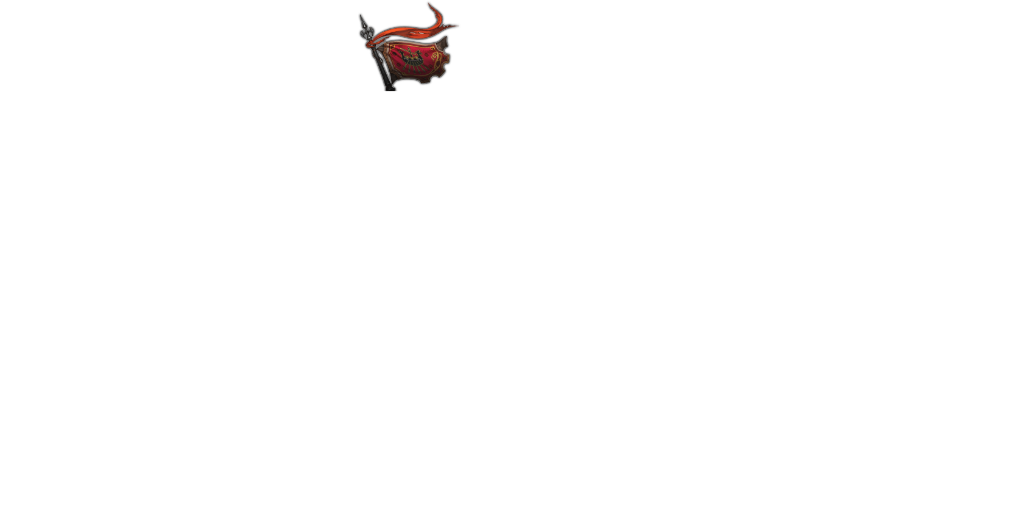
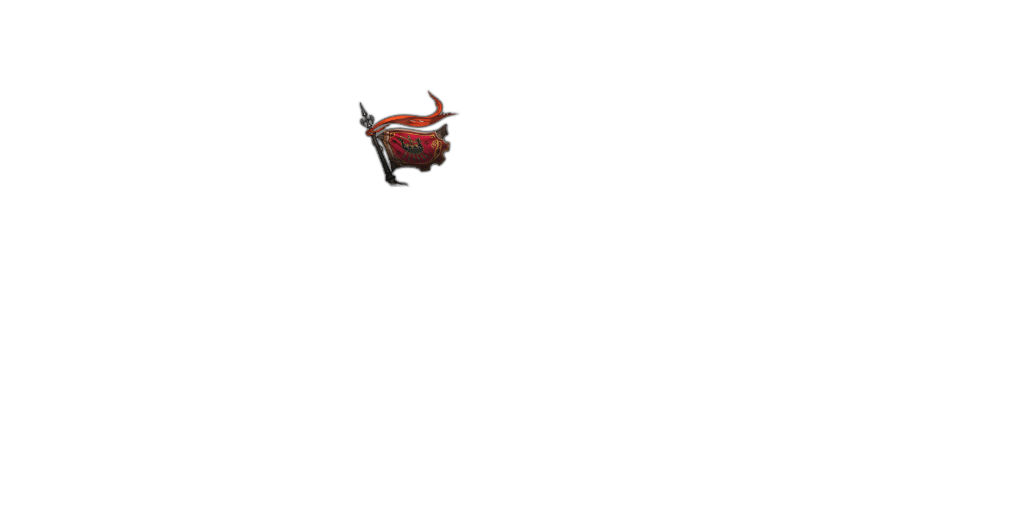
portrait updates

Changed region(s): [[0.3438, 0.0, 0.4375, 0.375]]

diff --git a/KupoNuts.Bot/Characters/PortraitDrawer.cs b/KupoNuts.Bot/Characters/PortraitDrawer.cs
@@ -3,14 +3,17 @@
 namespace KupoNuts.Bot.Characters
 {
 	using System;
+	using System.Buffers;
 	using System.IO;
 	using System.Threading.Tasks;
 	using KupoNuts.Bot.Utils;
 	using KupoNuts.Utils;
 	using SixLabors.Fonts;
 	using SixLabors.ImageSharp;
+	using SixLabors.ImageSharp.Memory;
 	using SixLabors.ImageSharp.PixelFormats;
 	using SixLabors.ImageSharp.Processing;
+	using SixLabors.ImageSharp.Processing.Processors;
 	using SixLabors.Primitives;
 	using XIVAPI;
 
@@ -62,13 +65,17 @@ namespace KupoNuts.Bot.Characters
 			gcImg.Dispose();
 
 			Image<Rgba32> rankImg = Image.Load<Rgba32>(PathUtils.Current + "/Assets/GrandCompanies/Ranks/" + character.GrandCompany?.Rank?.Icon.Replace("/i/083000/", string.Empty));
-			finalImg.Mutate(x => x.DrawImage(rankImg, new Point(370, 55), 1.0f));
+			finalImg.Mutate(x => x.DrawImage(rankImg, new Point(370, 152), 1.0f));
 			rankImg.Dispose();
-			finalImg.Mutate(x => x.DrawText(leftText, character.GrandCompany?.Rank?.Name, axisRegular.CreateFont(20), Color.White, new Point(420, 64)));
+			finalImg.Mutate(x => x.DrawText(leftText, character.GrandCompany?.Rank?.Name, axisRegular.CreateFont(18), Color.White, new Point(412, 163)));
+
+			// Server
+			finalImg.Mutate(x => x.DrawText(leftText, character.Server + " - " + character.DC, axisRegular.CreateFont(18), Color.White, new Point(412, 196)));
 
 			// Free Company
 			if (freeCompany != null)
 			{
+				Image<Rgba32> crestFinal = new Image<Rgba32>(128, 128);
 				foreach (string crestPart in freeCompany.Crest)
 				{
 					string name = Path.GetFileName(crestPart);
@@ -78,55 +85,89 @@ namespace KupoNuts.Bot.Characters
 						await FileDownloader.Download(crestPart, crestPath);
 
 					Image<Rgba32> crestImg = Image.Load<Rgba32>(crestPath);
-					crestImg.Mutate(x => x.Resize(75, 75));
-					finalImg.Mutate(x => x.DrawImage(crestImg, new Point(936, 12), 1.0f));
+					crestFinal.Mutate(x => x.DrawImage(crestImg, 1.0f));
 					crestImg.Dispose();
 				}
 
-				finalImg.Mutate(x => x.DrawText(rightText, "<" + freeCompany.Tag + ">", axisRegular.CreateFont(20), Color.White, new Point(925, 40)));
-				finalImg.Mutate(x => x.DrawText(rightText, freeCompany.Name, axisRegular.CreateFont(20), Color.White, new Point(925, 64)));
+				for (int y = 0; y < crestFinal.Height; y++)
+				{
+					for (int x = 0; x < crestFinal.Width; x++)
+					{
+						Rgba32 pixel = crestFinal[x, y];
+
+						if (pixel.R == 64 && pixel.G == 64 && pixel.B == 64)
+							pixel.A = 0;
+
+						crestFinal[x, y] = pixel;
+					}
+				}
+
+				crestFinal.Mutate(x => x.Resize(64, 64));
+				finalImg.Mutate(x => x.DrawImage(crestFinal, new Point(364, 270), 1.0f));
+				crestFinal.Dispose();
+
+				finalImg.Mutate(x => x.DrawText(leftText, "<" + freeCompany.Tag + ">", axisRegular.CreateFont(24), Color.White, new Point(431, 300)));
+				finalImg.Mutate(x => x.DrawTextAnySize(leftText, freeCompany.Name, axisRegular, Color.White, new Rectangle(431, 280, 158, 32)));
 			}
 
 			// Name / Bio
-			finalImg.Mutate(x => x.DrawTextAnySize(centerText, character.Name, optimuSemiBold, Color.White, new Rectangle(182, 450, 350, 50)));
-			finalImg.Mutate(x => x.DrawText(centerText, character.Title?.Name, axisRegular.CreateFont(22), Color.White, new PointF(182, 420)));
-			finalImg.Mutate(x => x.DrawText(centerText, character.Race?.Name + " (" + character.Tribe?.Name + ")", axisRegular.CreateFont(20), Color.White, new PointF(182, 485)));
-			finalImg.Mutate(x => x.DrawText(leftText, character.Bio, axisRegular.CreateFont(20), Color.White, new Rectangle(370, 425, 630, 74)));
+			finalImg.Mutate(x => x.DrawTextAnySize(centerText, character.Name, optimuSemiBold, Color.White, new Rectangle(680, 70, 660, 55)));
+			finalImg.Mutate(x => x.DrawText(centerText, character.Title?.Name, axisRegular.CreateFont(22), Color.White, new PointF(680, 35)));
+			finalImg.Mutate(x => x.DrawText(centerText, character.Race?.Name + " (" + character.Tribe?.Name + ")", axisRegular.CreateFont(20), Color.White, new PointF(680, 110)));
+
+			// Birthday (1st Sun of the 1st Astral Moon)
+			Image<Rgba32> moonImg;
+			if (character.Nameday.Contains("Astral"))
+			{
+				moonImg = Image.Load<Rgba32>(PathUtils.Current + "/Assets/Moons/Astral.png");
+			}
+			else
+			{
+				moonImg = Image.Load<Rgba32>(PathUtils.Current + "/Assets/Moons/Umbral.png");
+			}
+
+			finalImg.Mutate(x => x.DrawImage(moonImg, new Point(907, 122), 1.0f));
+			moonImg.Dispose();
+
+			Image<Rgba32> dietyImage = Image.Load<Rgba32>(PathUtils.Current + character.GuardianDeity?.Icon.Replace("/i/061000/", "/Assets/Twelve/"));
+			finalImg.Mutate(x => x.DrawImage(dietyImage, new Point(907, 122), 1.0f));
+			dietyImage.Dispose();
+
+			finalImg.Mutate(x => x.DrawText(leftText, character.Nameday, axisRegular.CreateFont(16), Color.White, new Point(700, 196)));
+			finalImg.Mutate(x => x.DrawText(leftText, character.GuardianDeity?.Name, jupiterPro.CreateFont(18), Color.White, new Point(700, 170)));
 
 			// Jobs
-			finalImg.Mutate(x => x.DrawText(centerText, GetJob(character, Jobs.Paladin), axisRegular.CreateFont(20), Color.White, new PointF(631, 225)));
-			finalImg.Mutate(x => x.DrawText(centerText, GetJob(character, Jobs.Warrior), axisRegular.CreateFont(20), Color.White, new PointF(690, 225)));
-			finalImg.Mutate(x => x.DrawText(centerText, GetJob(character, Jobs.Darkknight), axisRegular.CreateFont(20), Color.White, new PointF(749, 225)));
-			finalImg.Mutate(x => x.DrawText(centerText, GetJob(character, Jobs.Gunbreaker), axisRegular.CreateFont(20), Color.White, new PointF(810, 225)));
-			finalImg.Mutate(x => x.DrawText(centerText, GetJob(character, Jobs.Whitemage), axisRegular.CreateFont(20), Color.White, new PointF(865, 225)));
-			finalImg.Mutate(x => x.DrawText(centerText, GetJob(character, Jobs.Scholar), axisRegular.CreateFont(20), Color.White, new PointF(925, 225)));
-			finalImg.Mutate(x => x.DrawText(centerText, GetJob(character, Jobs.Astrologian), axisRegular.CreateFont(20), Color.White, new PointF(985, 225)));
-			finalImg.Mutate(x => x.DrawText(centerText, GetJob(character, Jobs.Dragoon), axisRegular.CreateFont(20), Color.White, new PointF(395, 310)));
-			finalImg.Mutate(x => x.DrawText(centerText, GetJob(character, Jobs.Monk), axisRegular.CreateFont(20), Color.White, new PointF(454, 310)));
-			finalImg.Mutate(x => x.DrawText(centerText, GetJob(character, Jobs.Ninja), axisRegular.CreateFont(20), Color.White, new PointF(513, 310)));
-			finalImg.Mutate(x => x.DrawText(centerText, GetJob(character, Jobs.Samurai), axisRegular.CreateFont(20), Color.White, new PointF(572, 310)));
-			finalImg.Mutate(x => x.DrawText(centerText, GetJob(character, Jobs.Bard), axisRegular.CreateFont(20), Color.White, new PointF(631, 310)));
-			finalImg.Mutate(x => x.DrawText(centerText, GetJob(character, Jobs.Machinist), axisRegular.CreateFont(20), Color.White, new PointF(690, 310)));
-			finalImg.Mutate(x => x.DrawText(centerText, GetJob(character, Jobs.Dancer), axisRegular.CreateFont(20), Color.White, new PointF(749, 310)));
-			finalImg.Mutate(x => x.DrawText(centerText, GetJob(character, Jobs.Blackmage), axisRegular.CreateFont(20), Color.White, new PointF(810, 310)));
-			finalImg.Mutate(x => x.DrawText(centerText, GetJob(character, Jobs.Summoner), axisRegular.CreateFont(20), Color.White, new PointF(865, 310)));
-			finalImg.Mutate(x => x.DrawText(centerText, GetJob(character, Jobs.Redmage), axisRegular.CreateFont(20), Color.White, new PointF(925, 310)));
-			finalImg.Mutate(x => x.DrawText(centerText, GetJob(character, Jobs.Bluemage), axisRegular.CreateFont(20), Color.White, new PointF(985, 310)));
-			finalImg.Mutate(x => x.DrawText(centerText, GetJob(character, Jobs.Botanist), axisRegular.CreateFont(20), Color.White, new PointF(395, 395)));
-			finalImg.Mutate(x => x.DrawText(centerText, GetJob(character, Jobs.Fisher), axisRegular.CreateFont(20), Color.White, new PointF(454, 395)));
-			finalImg.Mutate(x => x.DrawText(centerText, GetJob(character, Jobs.Miner), axisRegular.CreateFont(20), Color.White, new PointF(513, 395)));
-			finalImg.Mutate(x => x.DrawText(centerText, GetJob(character, Jobs.Alchemist), axisRegular.CreateFont(20), Color.White, new PointF(572, 395)));
-			finalImg.Mutate(x => x.DrawText(centerText, GetJob(character, Jobs.Armorer), axisRegular.CreateFont(20), Color.White, new PointF(631, 395)));
-			finalImg.Mutate(x => x.DrawText(centerText, GetJob(character, Jobs.Blacksmith), axisRegular.CreateFont(20), Color.White, new PointF(690, 395)));
-			finalImg.Mutate(x => x.DrawText(centerText, GetJob(character, Jobs.Carpenter), axisRegular.CreateFont(20), Color.White, new PointF(749, 395)));
-			finalImg.Mutate(x => x.DrawText(centerText, GetJob(character, Jobs.Culinarian), axisRegular.CreateFont(20), Color.White, new PointF(810, 395)));
-			finalImg.Mutate(x => x.DrawText(centerText, GetJob(character, Jobs.Goldsmith), axisRegular.CreateFont(20), Color.White, new PointF(865, 395)));
-			finalImg.Mutate(x => x.DrawText(centerText, GetJob(character, Jobs.Leatherworker), axisRegular.CreateFont(20), Color.White, new PointF(925, 395)));
-			finalImg.Mutate(x => x.DrawText(centerText, GetJob(character, Jobs.Weaver), axisRegular.CreateFont(20), Color.White, new PointF(985, 395)));
+			finalImg.Mutate(x => x.DrawText(centerText, GetJob(character, Jobs.Paladin), axisRegular.CreateFont(20), Color.White, new PointF(631, 330)));
+			finalImg.Mutate(x => x.DrawText(centerText, GetJob(character, Jobs.Warrior), axisRegular.CreateFont(20), Color.White, new PointF(690, 330)));
+			finalImg.Mutate(x => x.DrawText(centerText, GetJob(character, Jobs.Darkknight), axisRegular.CreateFont(20), Color.White, new PointF(749, 330)));
+			finalImg.Mutate(x => x.DrawText(centerText, GetJob(character, Jobs.Gunbreaker), axisRegular.CreateFont(20), Color.White, new PointF(808, 330)));
+			finalImg.Mutate(x => x.DrawText(centerText, GetJob(character, Jobs.Whitemage), axisRegular.CreateFont(20), Color.White, new PointF(865, 330)));
+			finalImg.Mutate(x => x.DrawText(centerText, GetJob(character, Jobs.Scholar), axisRegular.CreateFont(20), Color.White, new PointF(925, 330)));
+			finalImg.Mutate(x => x.DrawText(centerText, GetJob(character, Jobs.Astrologian), axisRegular.CreateFont(20), Color.White, new PointF(985, 330)));
+			finalImg.Mutate(x => x.DrawText(centerText, GetJob(character, Jobs.Dragoon), axisRegular.CreateFont(20), Color.White, new PointF(395, 406)));
+			finalImg.Mutate(x => x.DrawText(centerText, GetJob(character, Jobs.Monk), axisRegular.CreateFont(20), Color.White, new PointF(454, 406)));
+			finalImg.Mutate(x => x.DrawText(centerText, GetJob(character, Jobs.Ninja), axisRegular.CreateFont(20), Color.White, new PointF(513, 406)));
+			finalImg.Mutate(x => x.DrawText(centerText, GetJob(character, Jobs.Samurai), axisRegular.CreateFont(20), Color.White, new PointF(572, 406)));
+			finalImg.Mutate(x => x.DrawText(centerText, GetJob(character, Jobs.Bard), axisRegular.CreateFont(20), Color.White, new PointF(631, 406)));
+			finalImg.Mutate(x => x.DrawText(centerText, GetJob(character, Jobs.Machinist), axisRegular.CreateFont(20), Color.White, new PointF(690, 406)));
+			finalImg.Mutate(x => x.DrawText(centerText, GetJob(character, Jobs.Dancer), axisRegular.CreateFont(20), Color.White, new PointF(749, 406)));
+			finalImg.Mutate(x => x.DrawText(centerText, GetJob(character, Jobs.Blackmage), axisRegular.CreateFont(20), Color.White, new PointF(808, 406)));
+			finalImg.Mutate(x => x.DrawText(centerText, GetJob(character, Jobs.Summoner), axisRegular.CreateFont(20), Color.White, new PointF(865, 406)));
+			finalImg.Mutate(x => x.DrawText(centerText, GetJob(character, Jobs.Redmage), axisRegular.CreateFont(20), Color.White, new PointF(925, 406)));
+			finalImg.Mutate(x => x.DrawText(centerText, GetJob(character, Jobs.Bluemage), axisRegular.CreateFont(20), Color.White, new PointF(985, 406)));
+			finalImg.Mutate(x => x.DrawText(centerText, GetJob(character, Jobs.Botanist), axisRegular.CreateFont(20), Color.White, new PointF(395, 480)));
+			finalImg.Mutate(x => x.DrawText(centerText, GetJob(character, Jobs.Fisher), axisRegular.CreateFont(20), Color.White, new PointF(454, 480)));
+			finalImg.Mutate(x => x.DrawText(centerText, GetJob(character, Jobs.Miner), axisRegular.CreateFont(20), Color.White, new PointF(513, 480)));
+			finalImg.Mutate(x => x.DrawText(centerText, GetJob(character, Jobs.Alchemist), axisRegular.CreateFont(20), Color.White, new PointF(572, 480)));
+			finalImg.Mutate(x => x.DrawText(centerText, GetJob(character, Jobs.Armorer), axisRegular.CreateFont(20), Color.White, new PointF(631, 480)));
+			finalImg.Mutate(x => x.DrawText(centerText, GetJob(character, Jobs.Blacksmith), axisRegular.CreateFont(20), Color.White, new PointF(690, 480)));
+			finalImg.Mutate(x => x.DrawText(centerText, GetJob(character, Jobs.Carpenter), axisRegular.CreateFont(20), Color.White, new PointF(749, 480)));
+			finalImg.Mutate(x => x.DrawText(centerText, GetJob(character, Jobs.Culinarian), axisRegular.CreateFont(20), Color.White, new PointF(808, 480)));
+			finalImg.Mutate(x => x.DrawText(centerText, GetJob(character, Jobs.Goldsmith), axisRegular.CreateFont(20), Color.White, new PointF(865, 480)));
+			finalImg.Mutate(x => x.DrawText(centerText, GetJob(character, Jobs.Leatherworker), axisRegular.CreateFont(20), Color.White, new PointF(925, 480)));
+			finalImg.Mutate(x => x.DrawText(centerText, GetJob(character, Jobs.Weaver), axisRegular.CreateFont(20), Color.White, new PointF(985, 480)));
 
-			// Server
-			finalImg.Mutate(x => x.DrawText(leftText, character.Server + " - " + character.DC, axisRegular.CreateFont(18), new Color(new Argb32(1f, 1f, 1f, 0.5f)), new PointF(40, 10)));
-
+			// Save
 			string outputPath = PathUtils.Current + "/Temp/" + character.ID + "_render.png";
 			finalImg.Save(outputPath);
 
